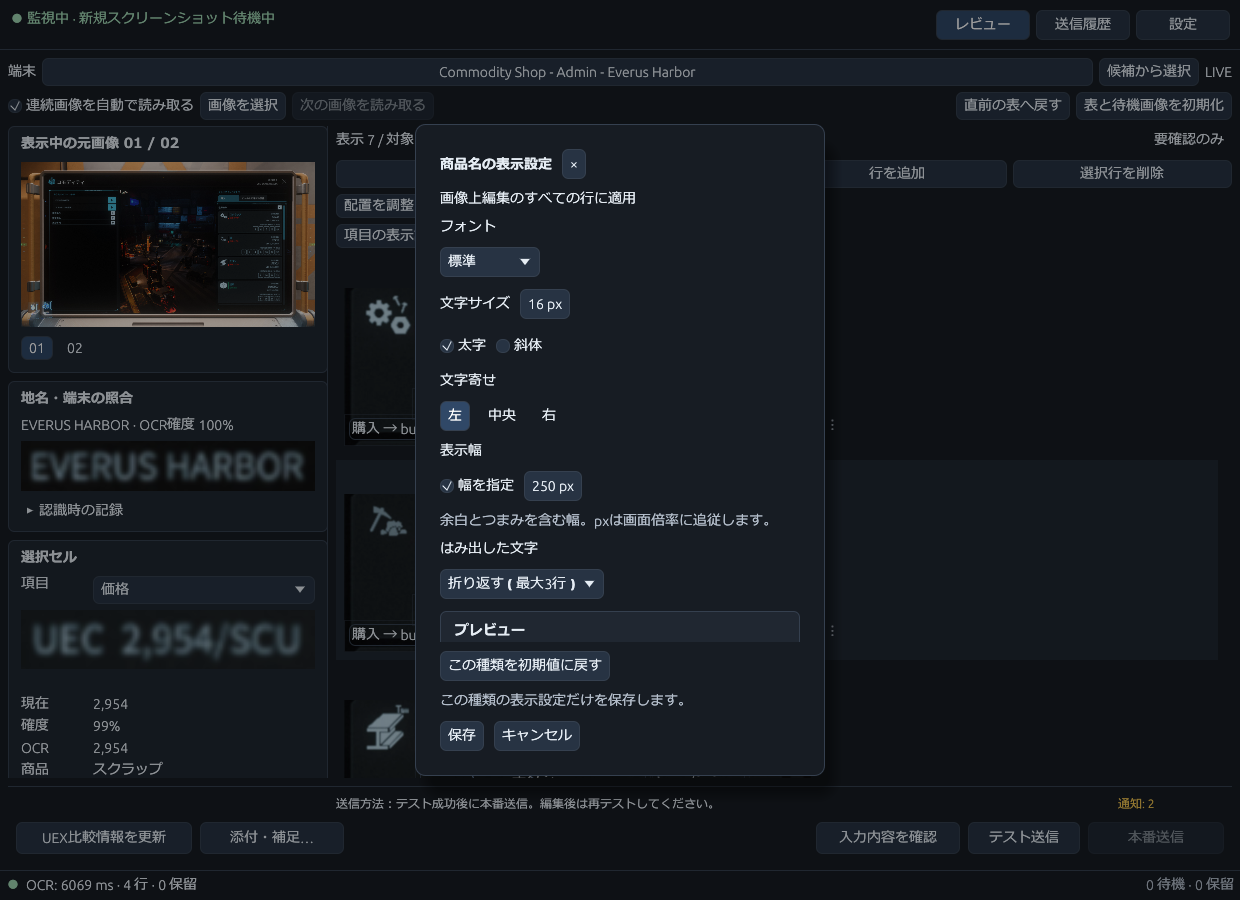
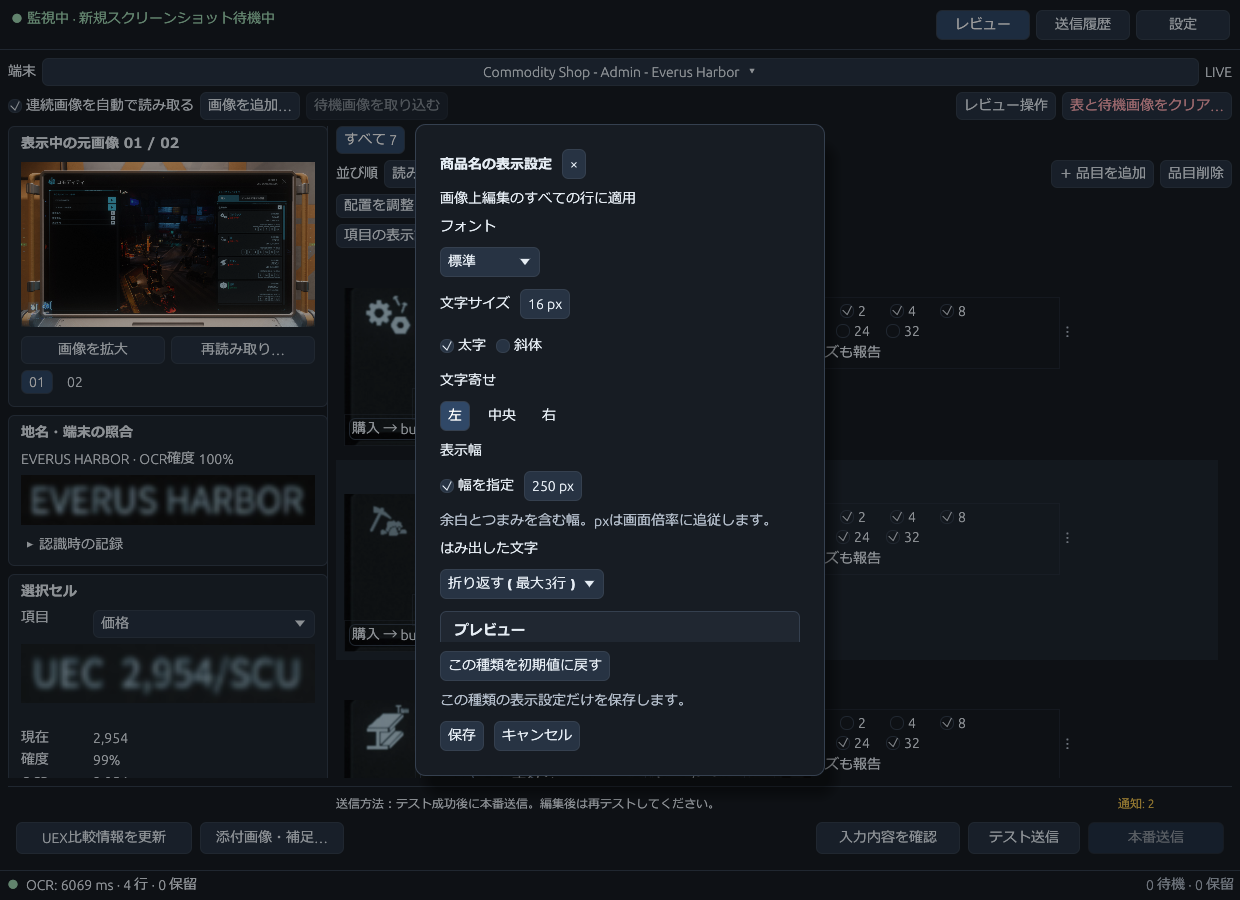
docs: describe 0.6.9 changes since 0.6.8 and refresh illustrated guides

diff --git a/docs/QUICKSTART.md b/docs/QUICKSTART.md
@@ -2,7 +2,8 @@
 
 [README](../README.md) · [日本語](QUICKSTART.ja.md)
 
-This guide covers **0.6.8**. Recognition of red trading terminals at
+This guide and its images follow **0.6.9 Preview**; saved settings take priority.
+Recognition of red trading terminals at
 some **STANTON** locations and orange **Pyro** terminals remains preliminary.
 Review names, prices, stock and cargo sizes against the image before submitting.
 
@@ -11,6 +12,14 @@ Review names, prices, stock and cargo sizes against the image before submitting.
 Download `VerseTrade-Relay.exe` from [Releases](https://github.com/nakacch/VerseTrade-Relay/releases)
 and double-click it. Required support files and license notices are prepared
 automatically in your user data folder. Microsoft Visual C++ x64 runtime must already be installed.
+
+Welcome setup has four steps: **interface language/theme → game dictionaries and
+watch folder → recognition language/models → UEX catalog, reference updates and
+game version**. Finish with **Save and start**, or choose **Set up later**.
+Dictionaries and watching are optional; an empty watch folder means manual import.
+On smaller windows, scroll the dialog body vertically to reach the remaining settings.
+
+![Step two of welcome setup: LIVE/PTU, optional translation files and watch folder](../assets/demo/welcome-en.png)
 
 In welcome setup, choose the environment you play in (**LIVE** or **PTU**).
 Use **Find standard game installations** or **Browse game folder** to find your
@@ -36,6 +45,12 @@ an external Tesseract model, then use **Apply to settings** and **Save settings*
 **Reset this language** resets only that language's model choices. **Cancel**
 discards dialog edits. Model downloads do not save your settings automatically.
 
+![OCR settings showing Max parallel jobs: default 8, range 1–16](../assets/demo/reading-settings-en.png)
+
+**Max parallel jobs** controls how many images can be read concurrently: **default
+8, range 1–16**. Saved values are preserved. Lower it and save settings if your PC
+is under heavy load.
+
 ONNX support is included in the EXE, and the app downloads your selected models
 for you. You can reopen first-run setup from Settings.
 
@@ -51,19 +66,21 @@ download models. Model downloads and catalog refreshes are separate operations.
 
 ### The default view
 
-![Default editing over commodity card images with the selected price's evidence on the left](../assets/demo/review-en.png)
+![Default card-image table with selected price evidence, image/editing columns, review filters and sorting](../assets/demo/review-en.png)
 
-First launch uses **Edit on card images**, with **Free placement**, **100% field
-background transparency** and **200 px rows**. Commodity, price, stock, trade side,
-inventory status and cargo controls sit over each card. Existing saved display,
-layout and text preferences take priority. Hover or focus a transparent control
-to make its background opaque.
+First launch uses **Table with card images**, **150 px rows** and **Stack fields**
+enabled. Images sit beside grouped commodity/side/status, stock/price and cargo
+editing columns. Existing saved display, layout and text preferences take priority.
+Scroll horizontally along the bottom of the list to reach the rightmost cargo
+column, including at 1050 × 700.
+
+![Default appearance settings: Table with card images, stacked fields and 150 px rows](../assets/demo/default-settings-en.png)
 
 Check the terminal, LIVE/PTU and monitoring status at the top. The upper left shows
 the viewed source image; the lower left shows the selected field's crop, OCR value,
 observations and editing controls. The commodity list scrolls vertically on the
 right. The details have their own scrollbar, and validation/submission controls
-stay at the bottom. Click the terminal name or **Choose terminal** if the detected
+stay at the bottom. Click the terminal name button if the detected
 location is wrong. Candidates are left-aligned and emphasize differing parts of
 their names. Correct automatic detection does not need manual confirmation.
 
@@ -103,21 +120,58 @@ language with the English UI.
 6. Use image enlargement for unreadable details. Changing the viewed image does
    not automatically change the image attached to a report. Check attachments explicitly.
 
-To correct cargo sizes, select the card's cargo control or the **Cargo SCU** cell, then select any combination
-of 1, 2, 4, 8, 16, 24 and 32 SCU in the left details and press **Confirm cargo sizes**.
-Scroll the details on smaller windows. **Cancel cargo edits** discards the pending
-selection. **Omit cargo sizes** omits only the size declaration, leaving price and
-inventory reporting available. Unreviewed OCR sizes are not sent automatically;
-an empty selection is never reported as no available sizes.
-Confirmed sizes belong to each row and survive rereading and page changes.
-Different size sets may require separate requests. The submission confirmation
-shows the sizes per commodity. Automatic correction comments remain paused.
+### Opt in to cargo-size reporting
 
-In **Table with card images**, you can also confirm sizes directly with the cargo
-checkboxes. Clearing all checks omits the size declaration. Leaving the controls
-untouched does not confirm unreviewed OCR sizes.
+Cargo-size reporting is **off by default for each item**. Reading, selecting or
+confirming sizes does not enable reporting.
 
-A pencil marker identifies a value changed by the reporter, including adopting a
+1. Select any combination of 1, 2, 4, 8, 16, 24 and 32 SCU in the cargo column.
+   In the left details, finish editing with **Confirm cargo sizes**.
+2. Enable **Report cargo sizes** in the details, or **Report** / **Report sizes** in the table.
+   Check **To send** in the details for the sizes that will actually be reported.
+3. Check each commodity's sizes in the submission confirmation. Different sets may require separate requests.
+
+Scroll the list horizontally and the left details vertically when needed.
+**Cancel cargo edits** discards pending edits. Turning **Report cargo sizes** off
+retains the selected sizes. **Omit cargo sizes** omits the size declaration while
+leaving price/stock reporting available. An empty selection never reports no
+available sizes. Confirmed manual sizes and reporting choices survive rereading
+and page changes. Changed report contents require another test in test-first mode.
+Automatic correction comments remain paused.
+
+Amber/red cargo numbers flag OCR readings needing review; bold/outlined numbers
+indicate UEX differences; checks indicate selected sizes. Review these separately
+from the **Report cargo sizes** switch.
+
+### Filter, sort and remove items
+
+**Needs review**, **Low confidence** and **Image differences** can be selected
+together. Multiple selections show items matching **any selected reason**.
+Choose **All** or turn every reason off to show all items. Reason counts overlap;
+use **X/Y shown** for the displayed count. Low confidence means an uncorrected OCR
+field is below 70% or has unknown confidence; image differences are unresolved changes between captures.
+Needs review also includes input errors and UEX warnings. Confidence does not
+guarantee accuracy.
+
+**Sort** offers reading order, needs review first, lowest OCR confidence, image
+differences first and commodity name. It preserves values and selection.
+**Hidden items remain in the submission.**
+
+To exclude an item, open **Delete item**, check the selected name and trade side,
+then **Remove selected item from submission**. Open **Manage deleted items…** in
+the same menu and **Restore to table** to recover its edits/evidence and clear
+the filters. Retest after restoration in test-first mode. **＋ Add item** is also
+above the list.
+
+### Image and whole-review actions
+
+Use **Add images…** in the import row, or **Import waiting capture** for queued
+images. **Enlarge image** and **Read again…** below the source image act on the
+viewed image; rereading retains manual edits. **Clear table and captures…** at the
+upper right opens a confirmation. **Review actions** offers restoration of the
+previous review when available.
+
+Bold text and a pencil marker identify a value changed by the reporter, including adopting a
 different OCR candidate or observation. Hover over the marker to inspect the reason
 and the recorded before/after values. Confirming an unchanged value does not create
 a reporter-change marker. Reverting to the original value removes that change's marker.
@@ -130,10 +184,10 @@ Your own notes are still sent. Recorded evidence and change reasons remain avail
 
 | Display | Meaning and action |
 | --- | --- |
-| OCR confidence text color | Reading confidence; inspect the crop and OCR value. |
+| OCR warning color and bold text | Uncorrected reading needing review; inspect the crop and OCR value. |
 | UEX comparison border | A difference from reference price/stock; inspect details or hints. |
 | Red value and border, with before/after explanation | Later captures disagree on price, stock or inventory status. |
-| Pencil marker | A reporter edit, recorded separately from automatic updates. |
+| Bold value and pencil marker | A reporter edit, recorded separately from automatic updates. |
 
 If a later price, stock or inventory reading differs and has at least **85% OCR
 confidence**, the app adopts it and marks the field for review. Manually edited
@@ -148,7 +202,7 @@ Manual corrections do not make the original OCR observation more confident.
 Re-recognition can update machine readings while preserving manual edits; verify
 the resulting draft. Reset/clear operations can remove the current work.
 
-You can also use **Select images** or drag and drop existing screenshots onto the
+You can also use **Add images…** or drag and drop existing screenshots onto the
 app. Folder watching detects new files, so use these options for older screenshots.
 If a new image needs its destination confirmed, follow the on-screen prompt.
 
@@ -160,9 +214,9 @@ review values, selection, evidence and report attachments.
 
 | Display mode | Use | Initial row height |
 | --- | --- | --- |
-| Edit on card images (default) | Edit controls over each image, close to the original text. | 200 px |
-| Table with card images | Image and editing columns side by side; **Stack fields** starts enabled. | 150 px |
-| Standard table | Conventional columns for commodity, side, price, stock and other values. | 54 px |
+| Table with card images (default) | Image and editing columns side by side; **Stack fields** starts enabled. | 150 px |
+| Edit on card images | Edit controls over each image, close to the original text. | 200 px |
+| Standard table | Conventional columns for commodity, side, price, stock and other values. | 72 px |
 
 ![Card-image table with grouped commodity/side/inventory, stock/price and cargo controls](../assets/demo/image-table-en.png)
 
@@ -176,6 +230,11 @@ other captures, so also inspect the selected field's details. Older captures
 without correction information may need rereading.
 
 ### Card placement and temporarily hiding controls
+
+This section applies after switching to **Edit on card images**. Its defaults
+are Free placement, 100% field background transparency and 200 px rows.
+
+![Alternative overlay editing with controls over commodity card images](../assets/demo/card-overlay-en.png)
 
 ![Appearance settings with free placement, transparency and display details](../assets/demo/display-settings-en.png)
 
@@ -276,7 +335,7 @@ OCR, monitoring/language, app updates and UEX connection.
 | Appearance | UI language, theme, review display/placement/styles and tooltips. |
 | Comparison | Reference retrieval and price/stock comparisons. |
 | Sending | Test-first, optional-test and production-only modes; behavior after sending. |
-| OCR | Automatic/manual reading language, per-language models and OCR aliases. |
+| OCR | Automatic/manual reading language, per-language models, Max parallel jobs (default 8, range 1–16) and OCR aliases. |
 | Captures | LIVE/PTU, watch folder and each environment's game translation file. |
 | Updates | Check/download updates, notifications and skipped versions. |
 | UEX connection | User secret and commodity/terminal catalog refresh. |
@@ -303,7 +362,7 @@ save again. Original OCR text remains available for reviewing evidence/candidate
 If the top status shows a monitoring error, open **Watch details** to inspect the
 saved folder and error. **Open watch settings** takes you to **Captures** to correct
 and save the path. Monitoring resumes automatically when the folder becomes
-readable. Use **Select images** for existing captures.
+readable. Use **Add images…** for existing captures.
 
 ### Submission history
 

diff --git a/README.ja.md b/README.ja.md
@@ -7,11 +7,17 @@
 [English](README.md) · [ダウンロード](https://github.com/nakacch/VerseTrade-Relay/releases) ·
 [簡易マニュアル](docs/QUICKSTART.ja.md) · [不具合報告](https://github.com/nakacch/VerseTrade-Relay/issues)
 
-[0.6.8プレリリース](https://github.com/nakacch/VerseTrade-Relay/releases/tag/v0.6.8)では、
-初回表示を**カード画像上で編集・自由配置**に変更しました。項目別の文字スタイル設定、
-右ボタン長押しによる画像確認、画像間で値が変わった場合の変更前後の根拠表示が利用できます。
-カード画像の大きさと端末候補の比較も改善し、3種類のレビュー表示を画像付きガイドで説明しています。
-保存済みの表示設定は引き継ぎます。
+**[0.6.9 プレリリース](https://github.com/nakacch/VerseTrade-Relay/releases/tag/v0.6.9) — 0.6.8からの変更点：**
+
+- 初回表示を**カード画像付きの表**に変更しました。行高150pxで項目を上下に並べます。
+  保存済みの表示設定は引き継ぎます。
+- 画像・品目の操作を対象の近くに整理し、絞り込み条件の併用と並び替えに対応しました。
+  削除した品目は編集値・根拠画像を保持したまま復元できます。
+- 貨物サイズは、品目ごとに**貨物サイズを報告**を有効にした場合だけ送信します。
+  以前のレビューを含め、サイズを選択しただけでは報告を有効にしません。
+- OCRの低確度、画像間の値の違い、手動編集した値を太字で見分けやすくしました。
+- OCRの最大並列処理数を初期値**8**、設定範囲**1〜16**に変更しました。
+  保存済みの値は引き継ぎます。日英の画像付きガイドも更新しました。
 
 ## 操作の流れ
 
@@ -19,18 +25,18 @@
 
 テスト送信は送信モードによって省略できます。初期状態のテスト先行モードではテスト成功が必要です。
 
-![初期表示のカード画像上編集。左は選択した価格の根拠、右は商品カードと入力欄](assets/demo/review-ja.png)
+![初期表示のカード画像付きの表。左は価格の根拠、右は商品画像と編集列、上部は絞り込みと並び順](assets/demo/review-ja.png)
 
-初回起動時は**カード画像上で編集**する表示です。画像上の入力欄を選んで、左の根拠画像と
-照合できます。保存済みの表示設定は引き継ぎます。「設定 → 表示と画像」で、
-カード画像付きの表・従来の表へも切り替えられます。
+初回起動時は**カード画像付きの表**です。行高150pxで項目を上下に並べ、画像と編集欄を
+横に置いて確認できます。値を選ぶと左に根拠画像を表示します。狭い画面では横スクロールで
+右端の貨物列を確認します。「設定 → 表示と画像」で画像上編集・従来の表へも切り替えられます。
 
 ![同じ端末の連続画像から商品をリストに追加し、セルのツールチップで根拠画像を確認してテスト・本番送信へ進む操作デモ](assets/demo/workflow-ja.gif)
 
 次の画像が同じ端末のものと認識されると、現在のリストへ商品が自動で追加されます。
 入力欄を選ぶと、左側の詳細欄にその値の根拠画像とOCR確度を表示します。
 従来の表では、セルにカーソルを重ねたツールチップでも確認できます。
-カード上で右ボタンを押し続けると、そのカードの入力欄を一時的に隠して画像を確認できます。
+画像上編集では、カード上で右ボタンを押し続けると入力欄を一時的に隠して画像を確認できます。
 
 操作手順を編集したデモです。待ち時間を短縮し、保存済みのローカルOCR結果を再生しています。
 送信応答と履歴は模擬データで、UEXへ実際の報告はしていません。
@@ -46,9 +52,12 @@
   `global.ini`の変更にも自動で追従します。
 - 元画像・切り出しを見ながら商品、価格、在庫、状態、貨物サイズを編集。
 - 画像上編集・カード画像付きの表・従来の表を切り替え。カード入力欄の配置や文字スタイルを調整。
+- 要確認・低確度・画像間の差を組み合わせて絞り込み、確認優先度や商品名で並び替え。
+  非表示の品目も送信対象です。「品目削除」で除外し、編集・根拠を保持して復帰できます。
+- 貨物サイズの報告は初期状態でOFF。「サイズを併せて報告」を有効にした品目だけ報告。
 - 後続画像で値が変わると赤い文字と枠で通知し、左詳細で変更前後の切り出しを比較。
-- OCR確度が低い値は文字色で、UEXの価格・在庫との乖離は色付きの枠と差分値で見やすく表示。
-- 報告者による変更は鉛筆マークで表示し、変更理由を確認できます。
+- OCR確度が低い未修正値は警告色と太字で、UEXの価格・在庫との乖離は枠と差分値で表示。
+- 報告者が変更した値は太字と鉛筆マークで表示し、変更理由を確認できます。
   自動コメント付加の一時停止は継続しています。自分で入力した補足は保持します。
 - テスト送信（任意・送信モードによる）、本番送信、送信履歴。
 - 日本語・英語のUIとSystem / Light / Dark / Slateのテーマ。

diff --git a/README.md b/README.md
@@ -8,12 +8,18 @@ reviewing the results, and reporting commodity prices and stock to **UEX**.
 [日本語](README.ja.md) · [Download](https://github.com/nakacch/VerseTrade-Relay/releases) ·
 [Quick start](docs/QUICKSTART.md) · [Report an issue](https://github.com/nakacch/VerseTrade-Relay/issues)
 
-[0.6.8 preview](https://github.com/nakacch/VerseTrade-Relay/releases/tag/v0.6.8)
-starts new profiles in **Edit on card images** with free placement. Customize each
-field's text style, hold the right mouse button to inspect covered image text,
-and compare earlier/later evidence when a value changes between captures.
-Card image sizing and terminal choices are easier to compare, and the illustrated
-guides now cover all three review displays. Saved display preferences are preserved.
+**[0.6.9 Preview](https://github.com/nakacch/VerseTrade-Relay/releases/tag/v0.6.9) — changes since 0.6.8:**
+
+- Start new profiles in **Table with card images**, with 150 px rows and stacked fields.
+  Saved display preferences are preserved.
+- Find image and item actions beside their targets; combine review filters, sort
+  rows, and restore deleted items with their edits and evidence.
+- Cargo sizes are reported only after enabling **Report cargo sizes** for each item.
+  Selecting sizes alone does not enable reporting, including for older saved reviews.
+- Read low-confidence OCR warnings, differences between captures and manual edits
+  more easily through bold values.
+- OCR concurrency now defaults to **8**, with a configurable range of **1–16**;
+  saved values are preserved. The illustrated English/Japanese guides are also updated.
 
 ## See it in action
 
@@ -22,18 +28,19 @@ guides now cover all three review displays. Saved display preferences are preser
 Testing can be skipped depending on the submission mode. The default test-first
 mode requires a successful test.
 
-![Default card-image editing with the selected price's evidence on the left and editable commodity cards on the right](assets/demo/review-en.png)
+![Default card-image table with price evidence on the left, images and editing columns on the right, and review filters and sorting above](assets/demo/review-en.png)
 
-First launch uses **Edit on card images**. Select a control to compare its value
-with the evidence on the left. Saved display preferences take priority.
-**Settings → Appearance** also offers a card-image table and the standard table.
+First launch uses **Table with card images**, 150 px rows and stacked fields.
+Select a value to inspect evidence on the left. On narrow windows, scroll horizontally
+to reach the cargo column. Saved display preferences take priority. **Settings → Appearance**
+also offers image overlay editing and the standard table.
 
 ![Consecutive captures at the same terminal add commodities to one list; hover a cell for its evidence, then review, test and submit](assets/demo/workflow-en.gif)
 
 When the next capture is recognized as the same terminal, new commodities are
 added to the current list. Select a control to see its supporting crop and OCR
 confidence in the left details. In the standard table, cell tooltips also show
-this evidence. Hold the right mouse button on a card to temporarily hide its controls.
+this evidence. In overlay editing, hold the right mouse button on a card to temporarily hide its controls.
 
 Edited workflow demo: waiting time is shortened, local OCR results are replayed,
 and submission responses/history are simulated. No report was sent to UEX.
@@ -51,10 +58,14 @@ Prefer still images? See the [illustrated quick start](docs/QUICKSTART.md#2-read
   inventory status and cargo sizes.
 - Switch between image overlays, a card-image table and the standard table;
   customize card control placement and text styles.
+- Combine Needs review, Low confidence and Image differences filters; sort by
+  review priority or name. Hidden rows remain in the submission. Remove items
+  through **Delete item** and restore them with their edits and evidence.
+- Cargo-size reporting starts off. Enable **Report cargo sizes** for each item to include it.
 - See changes between captures in red and compare earlier/later crops in the details.
-- Spot low OCR confidence through text colors and differences from UEX reference
+- Spot uncorrected low-confidence values through warning colors and bold text, and differences from UEX reference
   prices/stock through colored borders and difference values.
-- Identify reporter edits with pencil markers and inspect the reasons locally.
+- Identify reporter edits with bold values and pencil markers and inspect the reasons locally.
   Automatic report comments remain temporarily disabled; your own notes are preserved.
 - Optional test reports (depending on submission mode), production submission and history.
 - English/Japanese interface; System, Light, Dark and Slate themes.
